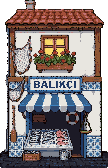
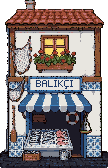
Slanted sidewalk with gutter, muted backdrop houses, crisp shop signs
Claude-Session: https://claude.ai/code/session_01PqZe2QUa7WhLyawoXhhoRf

Changed region(s): [[0.3056, 0.4464, 0.7222, 0.5357]]

diff --git a/src/scenes/BootScene.js b/src/scenes/BootScene.js
@@ -15,11 +15,11 @@ export default class BootScene extends Phaser.Scene {
     });
     SHOPS.forEach(({ key }) => this.load.image(`shop-${key}`, `assets/shops/${key}.png`));
     this.load.image('sidewalk', 'assets/tiles/sidewalk.png');
+    this.load.image('backdrop', 'assets/tiles/backdrop.png');
   }
 
   create() {
     this.makeHeart();
-    this.makeSkyline();
     this.makeLamp();
 
     this.anims.create({
@@ -57,34 +57,6 @@ export default class BootScene extends Phaser.Scene {
     ];
     this.pixelTexture('heart', rows, { '#': PALETTE.heart });
     this.pixelTexture('heart-empty', rows, { '#': PALETTE.heartEmpty });
-  }
-
-  // Far-off Istanbul: hills, a mosque with two minarets, and Galata Tower.
-  makeSkyline() {
-    const w = 320;
-    const h = 90;
-    const g = this.add.graphics();
-
-    g.fillStyle(PALETTE.skylineFar);
-    g.fillEllipse(60, h, 200, 70);
-    g.fillEllipse(250, h, 220, 60);
-
-    g.fillStyle(PALETTE.skyline);
-    // Mosque
-    g.fillRect(70, 55, 70, 35);
-    g.fillEllipse(105, 55, 44, 34);
-    g.fillEllipse(80, 60, 18, 14).fillEllipse(130, 60, 18, 14);
-    g.fillRect(104, 32, 2, 6);
-    g.fillRect(56, 18, 4, 72).fillTriangle(55, 18, 61, 18, 58, 8);
-    g.fillRect(150, 18, 4, 72).fillTriangle(149, 18, 155, 18, 152, 8);
-    // Galata Tower
-    g.fillRect(230, 40, 14, 50);
-    g.fillRect(228, 36, 18, 5);
-    g.fillTriangle(227, 36, 247, 36, 237, 20);
-    // Rooftops
-    g.fillRect(0, 74, 50, 16).fillRect(170, 70, 50, 20).fillRect(260, 72, 60, 18);
-    g.generateTexture('skyline', w, h);
-    g.destroy();
   }
 
   makeLamp() {

diff --git a/src/scenes/StreetScene.js b/src/scenes/StreetScene.js
@@ -12,7 +12,6 @@ import {
 import { SHOPS } from '../data/shops.js';
 const MARGIN = 48;
 const GAP = 14;
-const SHOP_TOP = SIDEWALK_Y - 170; // shop art is 170px tall
 const WALK_SPEED = 48; // game pixels per second
 const NEAR_SHOP = 34; // how close the Don must be to a shop door to "check in"
 
@@ -23,7 +22,9 @@ export default class StreetScene extends Phaser.Scene {
 
   create() {
     this.drawSky();
-    this.add.image(0, SHOP_TOP + 60, 'skyline').setOrigin(0, 1).setScrollFactor(0.3);
+    // Far houses drift slower than the shops, so the street feels deep.
+    this.backdrop = this.add.tileSprite(0, SIDEWALK_Y, GAME_WIDTH, 224, 'backdrop')
+      .setOrigin(0, 1).setScrollFactor(0.6);
 
     // Shops side by side, with a street lamp in each gap
     let x = MARGIN;
@@ -37,10 +38,11 @@ export default class StreetScene extends Phaser.Scene {
     const worldW = x - GAP + MARGIN;
     this.worldW = worldW;
 
-    // Sidewalk, curb, road
+    this.backdrop.width = worldW;
+
+    // Sidewalk (gutter, cobbles and curb are all in the tile), then the road
     this.add.tileSprite(0, SIDEWALK_Y, worldW, ROAD_Y - SIDEWALK_Y, 'sidewalk').setOrigin(0, 0);
-    this.add.rectangle(0, ROAD_Y, worldW, 3, PALETTE.cream).setOrigin(0, 0);
-    this.add.rectangle(0, ROAD_Y + 3, worldW, PANEL_Y - ROAD_Y - 3, PALETTE.road).setOrigin(0, 0);
+    this.add.rectangle(0, ROAD_Y, worldW, PANEL_Y - ROAD_Y, PALETTE.road).setOrigin(0, 0);
 
     this.don = this.add.sprite(MARGIN / 2 + 10, FEET_Y, 'don', 0).setOrigin(0.5, 56 / 64);
     this.targetX = null;

diff --git a/src/config.js b/src/config.js
@@ -14,8 +14,6 @@ export const PALETTE = {
   night: 0x1a1423,
   skyTop: 0x3b2d5c,
   skyBottom: 0xe0896b,
-  skyline: 0x5a3d6e,
-  skylineFar: 0x8a5a7a,
   cream: 0xf2e3c6,
   road: 0x4a3f45,
   heart: 0xd94a5a,

diff --git a/art/tools/sidewalk.py b/art/tools/sidewalk.py
@@ -1,0 +1,102 @@
+"""Draw the sidewalk strip: a gutter along the shops, slanted cobbles, and a curb.
+
+The strip repeats every WIDTH pixels with no seam.
+Run from the repo root: python3 art/tools/sidewalk.py
+"""
+import random
+from PIL import Image
+
+WIDTH, HEIGHT = 288, 34
+SLANT = 0.6  # how far each stone edge leans right per pixel going up
+
+MORTAR = (42, 40, 34)
+DARK = (23, 21, 18)
+STONES = [(175, 130, 82), (154, 137, 112), (184, 161, 125), (175, 142, 94), (168, 151, 126), (152, 123, 90)]
+LIGHT = (200, 173, 130)
+SHADE = (105, 87, 65)
+GUTTER_LIP = (126, 111, 87)
+GUTTER_DEEP = (58, 52, 41)
+WATER = (75, 70, 50)
+WATER_GLINT = (152, 160, 150)
+CURB_TOP = (214, 196, 160)
+CURB_FACE = (126, 111, 87)
+CURB_SHADE = (75, 70, 50)
+
+# Cobble rows from back (top) to front: (height, stone width). Farther rows are smaller.
+ROWS = [(4, 8), (5, 12), (6, 16), (7, 18)]
+GUTTER_H = 6
+CURB_H = 6
+
+
+def lerp(a, b, t):
+    return tuple(round(x + (y - x) * t) for x, y in zip(a, b))
+
+
+def main():
+    rnd = random.Random(7)
+    im = Image.new('RGB', (WIDTH, HEIGHT), MORTAR)
+    px = im.load()
+
+    # Gutter: a stone lip, a dark wet channel, and an iron grate now and then.
+    for x in range(WIDTH):
+        px[x, 0] = GUTTER_LIP
+        px[x, 1] = DARK
+        for y in range(2, GUTTER_H - 1):
+            px[x, y] = GUTTER_DEEP if y < 3 else WATER
+        px[x, GUTTER_H - 1] = LIGHT
+    for x in range(0, WIDTH, 7):  # slow ripples on the water
+        px[(x + rnd.randrange(3)) % WIDTH, 4] = WATER_GLINT
+    for gx in (40, 184):
+        for x in range(gx, gx + 12):
+            for y in range(1, GUTTER_H - 1):
+                px[x, y] = DARK if (x - gx) % 2 else (90, 92, 96)
+        for y in range(1, GUTTER_H - 1):
+            px[gx - 1, y] = px[gx + 12, y] = DARK
+
+    # Slanted cobbles.
+    y0 = GUTTER_H
+    for row, (h, sw) in enumerate(ROWS):
+        count = WIDTH // sw
+        tones = [rnd.choice(STONES) for _ in range(count)]
+        offset = rnd.randrange(sw)
+        yb = y0 + h - 1
+        for y in range(y0, yb + 1):
+            for x in range(WIDTH):
+                u = (x - offset - (yb - y) * SLANT) % WIDTH
+                i, lu = int(u // sw) % count, u % sw
+                top, bottom = y == y0, y == yb
+                left, right = lu < 1, lu >= sw - 1
+                if top or left:
+                    c = MORTAR
+                elif (y == y0 + 1 and lu < 2) or (bottom and right):
+                    c = MORTAR  # rounded corners
+                elif y == y0 + 1 or lu < 2:
+                    c = lerp(tones[i], LIGHT, 0.5)
+                elif bottom or right:
+                    c = lerp(tones[i], SHADE, 0.6)
+                else:
+                    c = tones[i]
+                px[x, y] = c
+        y0 = yb + 1
+
+    # Little cracks and dirt, never on mortar.
+    for _ in range(60):
+        x, y = rnd.randrange(WIDTH), rnd.randrange(GUTTER_H + 1, y0)
+        if px[x, y] in STONES:
+            px[x, y] = lerp(px[x, y], SHADE, 0.7)
+
+    # Curb: worn top edge and a shaded front face with joints.
+    for x in range(WIDTH):
+        px[x, y0] = CURB_TOP
+        px[x, y0 + 1] = lerp(CURB_TOP, CURB_FACE, 0.4)
+        for y in range(y0 + 2, HEIGHT):
+            px[x, y] = CURB_FACE if y < HEIGHT - 1 else CURB_SHADE
+    for jx in range(0, WIDTH, 24):
+        for y in range(y0 + 2, HEIGHT):
+            px[jx, y] = CURB_SHADE
+
+    assert y0 + CURB_H == HEIGHT, (y0, HEIGHT)
+    im.save('public/assets/tiles/sidewalk.png')
+
+
+main()

diff --git a/art/tools/signs.py b/art/tools/signs.py
@@ -1,0 +1,71 @@
+"""Repaint shop sign text with a hand-made pixel font so it reads crisp.
+
+Run from the repo root: python3 art/tools/signs.py
+"""
+from PIL import Image
+
+# 4x5 font for the small tea house sign. Accent marks are drawn separately.
+SMALL = {
+    'C': ['.###', '#...', '#...', '#...', '.###'],
+    'A': ['.##.', '#..#', '####', '#..#', '#..#'],
+    'Y': ['#.#', '#.#', '.#.', '.#.', '.#.'],
+    'O': ['.##.', '#..#', '#..#', '#..#', '.##.'],
+    'G': ['.###', '#...', '#.##', '#..#', '.###'],
+    'I': ['#', '#', '#', '#', '#'],
+    ' ': ['..', '..', '..', '..', '..'],
+}
+# 5x7 font for the fish shop sign.
+BIG = {
+    'B': ['####.', '#...#', '#...#', '####.', '#...#', '#...#', '####.'],
+    'A': ['.###.', '#...#', '#...#', '#####', '#...#', '#...#', '#...#'],
+    'L': ['#....', '#....', '#....', '#....', '#....', '#....', '#####'],
+    'I': ['###', '.#.', '.#.', '.#.', '.#.', '.#.', '###'],
+    'K': ['#...#', '#..#.', '#.#..', '##...', '#.#..', '#..#.', '#...#'],
+    'C': ['.####', '#....', '#....', '#....', '#....', '#....', '.####'],
+}
+
+
+def draw(im, text, font, x0, y0, color, cedilla=(), breve=()):
+    """Draw text; indexes in cedilla/breve get the Turkish marks."""
+    px = im.load()
+    h = len(next(iter(font.values())))
+    x = x0
+    for i, ch in enumerate(text):
+        rows = font[ch]
+        w = len(rows[0])
+        for dy, row in enumerate(rows):
+            for dx, c in enumerate(row):
+                if c == '#':
+                    px[x + dx, y0 + dy] = color
+        mid = x + w // 2
+        if i in cedilla:  # little hook under the letter
+            px[mid, y0 + h] = color
+            px[mid, y0 + h + 1] = color
+            px[mid - 1, y0 + h + 1] = color
+        if i in breve:  # small cup above the letter
+            px[mid - 1, y0 - 2] = color
+            px[mid, y0 - 1] = color
+            px[mid + 1, y0 - 2] = color
+        x += w + 1
+
+
+def width(text, font):
+    return sum(len(font[c][0]) + 1 for c in text) - 1
+
+
+def repaint(path, box, bg, fg, text, font, y0, **marks):
+    im = Image.open(path).convert('RGBA')
+    l, t, r, b = box
+    for y in range(t, b + 1):
+        for x in range(l, r + 1):
+            im.putpixel((x, y), bg)
+    x0 = l + (r - l + 1 - width(text, font)) // 2
+    draw(im, text, font, x0, y0, fg, **marks)
+    im.save(path)
+
+
+S = 'public/assets/shops/'
+repaint(S + 'cay.png', (47, 98, 92, 108), (64, 85, 101, 255), (232, 226, 204, 255),
+        'CAY OCAGI', SMALL, 101, cedilla={0}, breve={7})
+repaint(S + 'balik.png', (31, 79, 78, 89), (232, 230, 224, 255), (31, 57, 101, 255),
+        'BALIKCI', BIG, 80, cedilla={5})

diff --git a/art/tools/backdrop.py b/art/tools/backdrop.py
@@ -1,0 +1,50 @@
+"""Build the muted backdrop from the two Retro Diffusion halves.
+
+Run from the repo root: python3 art/tools/backdrop.py
+"""
+from collections import deque
+from PIL import Image
+
+DUSK = (62, 44, 88)  # what the far houses fade toward
+
+
+def clear_sky(im):
+    """Flood-fill the sky color from the top edge to transparent."""
+    px = im.load()
+    w, h = im.size
+    sky = px[0, 0]
+    q = deque((x, 0) for x in range(w))
+    seen = set()
+    while q:
+        x, y = q.popleft()
+        if (x, y) in seen or not (0 <= x < w and 0 <= y < h) or px[x, y] != sky:
+            continue
+        seen.add((x, y))
+        px[x, y] = (0, 0, 0, 0)
+        q.extend([(x + 1, y), (x - 1, y), (x, y + 1)])
+
+
+def mute(c):
+    r, g, b, a = c
+    if a == 0:
+        return c
+    glow = r > 200 and g > 130 and b < 120  # lit windows stay a bit warm
+    gray = (r * 3 + g * 6 + b) // 10
+    fade, dusk = (0.25, 0.35) if glow else (0.55, 0.6)
+    out = []
+    for ch, d in zip((r, g, b), DUSK):
+        ch = ch + (gray - ch) * fade
+        ch = ch + (d - ch) * dusk
+        out.append(round(ch))
+    return (*out, 255)
+
+
+halves = [Image.open(f'art/concepts/backdrop_px_{s}.png').convert('RGBA') for s in ('left', 'right')]
+for half in halves:
+    clear_sky(half)
+im = Image.new('RGBA', (sum(h.width for h in halves), halves[0].height))
+im.paste(halves[0], (0, 0))
+im.paste(halves[1], (halves[0].width, 0))
+im.putdata([mute(c) for c in im.getdata()])
+im.save('public/assets/tiles/backdrop.png')
+print(im.size)
